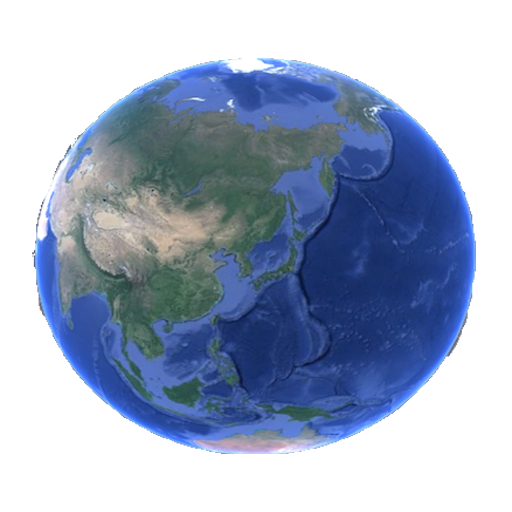
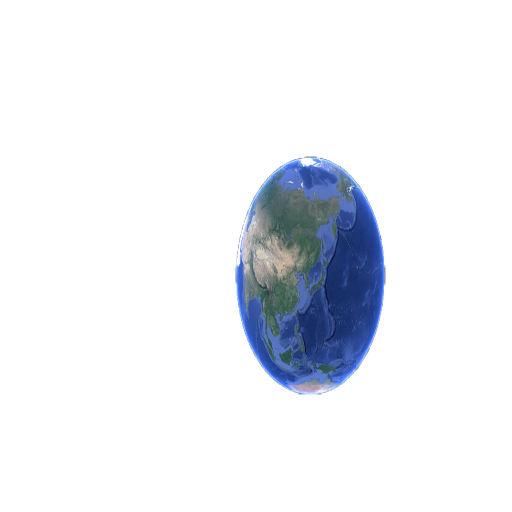
지구 돌아감/ 랜덤....

diff --git a/public/javascripts/game.js b/public/javascripts/game.js
@@ -8,6 +8,24 @@ resource.earth[0] = new Image();
 resource.earth[0].src = "images/planet/blue/1.png";
 resource.earth[1] = new Image();
 resource.earth[1].src = "images/planet/blue/2.png";
+resource.earth[2] = new Image();
+resource.earth[2].src = "images/planet/blue/3.png";
+resource.earth[3] = new Image();
+resource.earth[3].src = "images/planet/blue/4.png";
+resource.earth[4] = new Image();
+resource.earth[4].src = "images/planet/blue/5.png";
+resource.earth[5] = new Image();
+resource.earth[5].src = "images/planet/blue/6.png";
+resource.earth[6] = new Image();
+resource.earth[6].src = "images/planet/blue/7.png";
+
+
+resource.mars[0] = new Image();
+resource.mars[0].src = "images/planet/red/1.png";
+
+
+resource.moon[0] = new Image();
+resource.moon[0].src = "images/planet/gray/1.png";
 
 function Game(blue, red){
   var canvas = document.getElementsByTagName('canvas')[0];
@@ -18,13 +36,13 @@ function Game(blue, red){
   var PlanetframNum = 1;
   this.spaceShip = new Image();
   this.spaceShip.src = 'images/settle_1.png';
-  this.planet = new Array();
 
   var that = this;
 
   //map
   this.node = _map.map(function(item, index){
-    var node = new Node(item.x, item.y, item.r, item.num, index);
+    console.log("length size is " + this.length);
+    var node = new Node(item.x, item.y, item.r, item.num, index, parseInt(Math.random()*this.length));
     node.team = item.team;
     return node;
   });
@@ -69,7 +87,7 @@ Game.prototype.draw = function(ctx){
 
   //draw map
   this.node.forEach(function(node){
-    node.draw(ctx, that.planet);
+    node.draw(ctx);
   });
   //draw army
   this.army.forEach(function(army){
@@ -149,7 +167,7 @@ Game.prototype.matchResultCheck = function(red, blue){
 //need to be implemented
 };
 
-function Node(x, y, r, num, id){
+function Node(x, y, r, num, id, number){
   this.x = x;
   this.y = y;
   this.r = r;
@@ -158,6 +176,7 @@ function Node(x, y, r, num, id){
   this.regenCount = 0;
   this.rotatePlanetIndex = 0; 
   this.delayCount = 0;
+  this.gameRanId =  number;
 }
 Node.prototype.run = function(dt){
   this.regenCount += dt * this.r;
@@ -175,7 +194,7 @@ Node.prototype.run = function(dt){
     }
   }
 }
-Node.prototype.draw = function(ctx, planetImg){
+Node.prototype.draw = function(ctx){
   ctx.save();
 
   ctx.beginPath();
@@ -186,7 +205,7 @@ Node.prototype.draw = function(ctx, planetImg){
   //ctx.fill();
 
   ctx.beginPath();
-  ctx.arc(this.x, this.y, this.r, 0, Math.PI*2, true);
+  ctx.arc(this.x, this.y, this.r*1.1, 0, Math.PI*2, true);
   ctx.closePath();
   ctx.strokeStyle = "white";
   ctx.stroke();
@@ -195,19 +214,23 @@ Node.prototype.draw = function(ctx, planetImg){
   ctx.fillStyle = "white";
   ctx.fillText("" + this.num + "/" + this.r, this.x, this.y + this.r + 10);
 
-  if(this.team == "blue"){
-    ctx.drawImage(resource.earth[this.rotatePlanetIndex], this.x-this.r, this.y-this.r, this.r*2, this.r*2);
+  if(this.id == this.gameRanId){
+    ctx.drawImage(resource.earth[this.rotatePlanetIndex], this.x-this.r*3.64, this.y-this.r*2.15, this.r*6, this.r*4);
   }else if(this.team == "red"){
-    ctx.drawImage(resource.earth[this.rotatePlanetIndex],this.x-this.r, this.y-this.r, this.r*2, this.r*2);
+    ctx.drawImage(resource.mars[0],this.x-this.r*3.64, this.y-this.r*2.15, this.r*6, this.r*4);
   }else{
-    ctx.drawImage(resource.earth[this.rotatePlanetIndex], this.x-this.r, this.y-this.r, this.r*2, this.r*2);
+    ctx.drawImage(resource.moon[0], this.x-this.r*3.64, this.y-this.r*2.15, this.r*6, this.r*4);
   }
+  //delay를 위한 카운트
   this.delayCount = this.delayCount + 1;
-  if(this.delayCount == 10){
+
+  if(this.delayCount == 25){
+    //25번 더한뒤 25가 되면 그대 프레임 변경
     this.rotatePlanetIndex = this.rotatePlanetIndex + 1;
     this.delayCount = 0;
   }
-  if(this.rotatePlanetIndex == 2){
+  if(this.rotatePlanetIndex == 7){
+    // 프레인 7개를 번갈아 가게 하기 위해 
     this.rotatePlanetIndex = 0;
   }
   ctx.restore();
